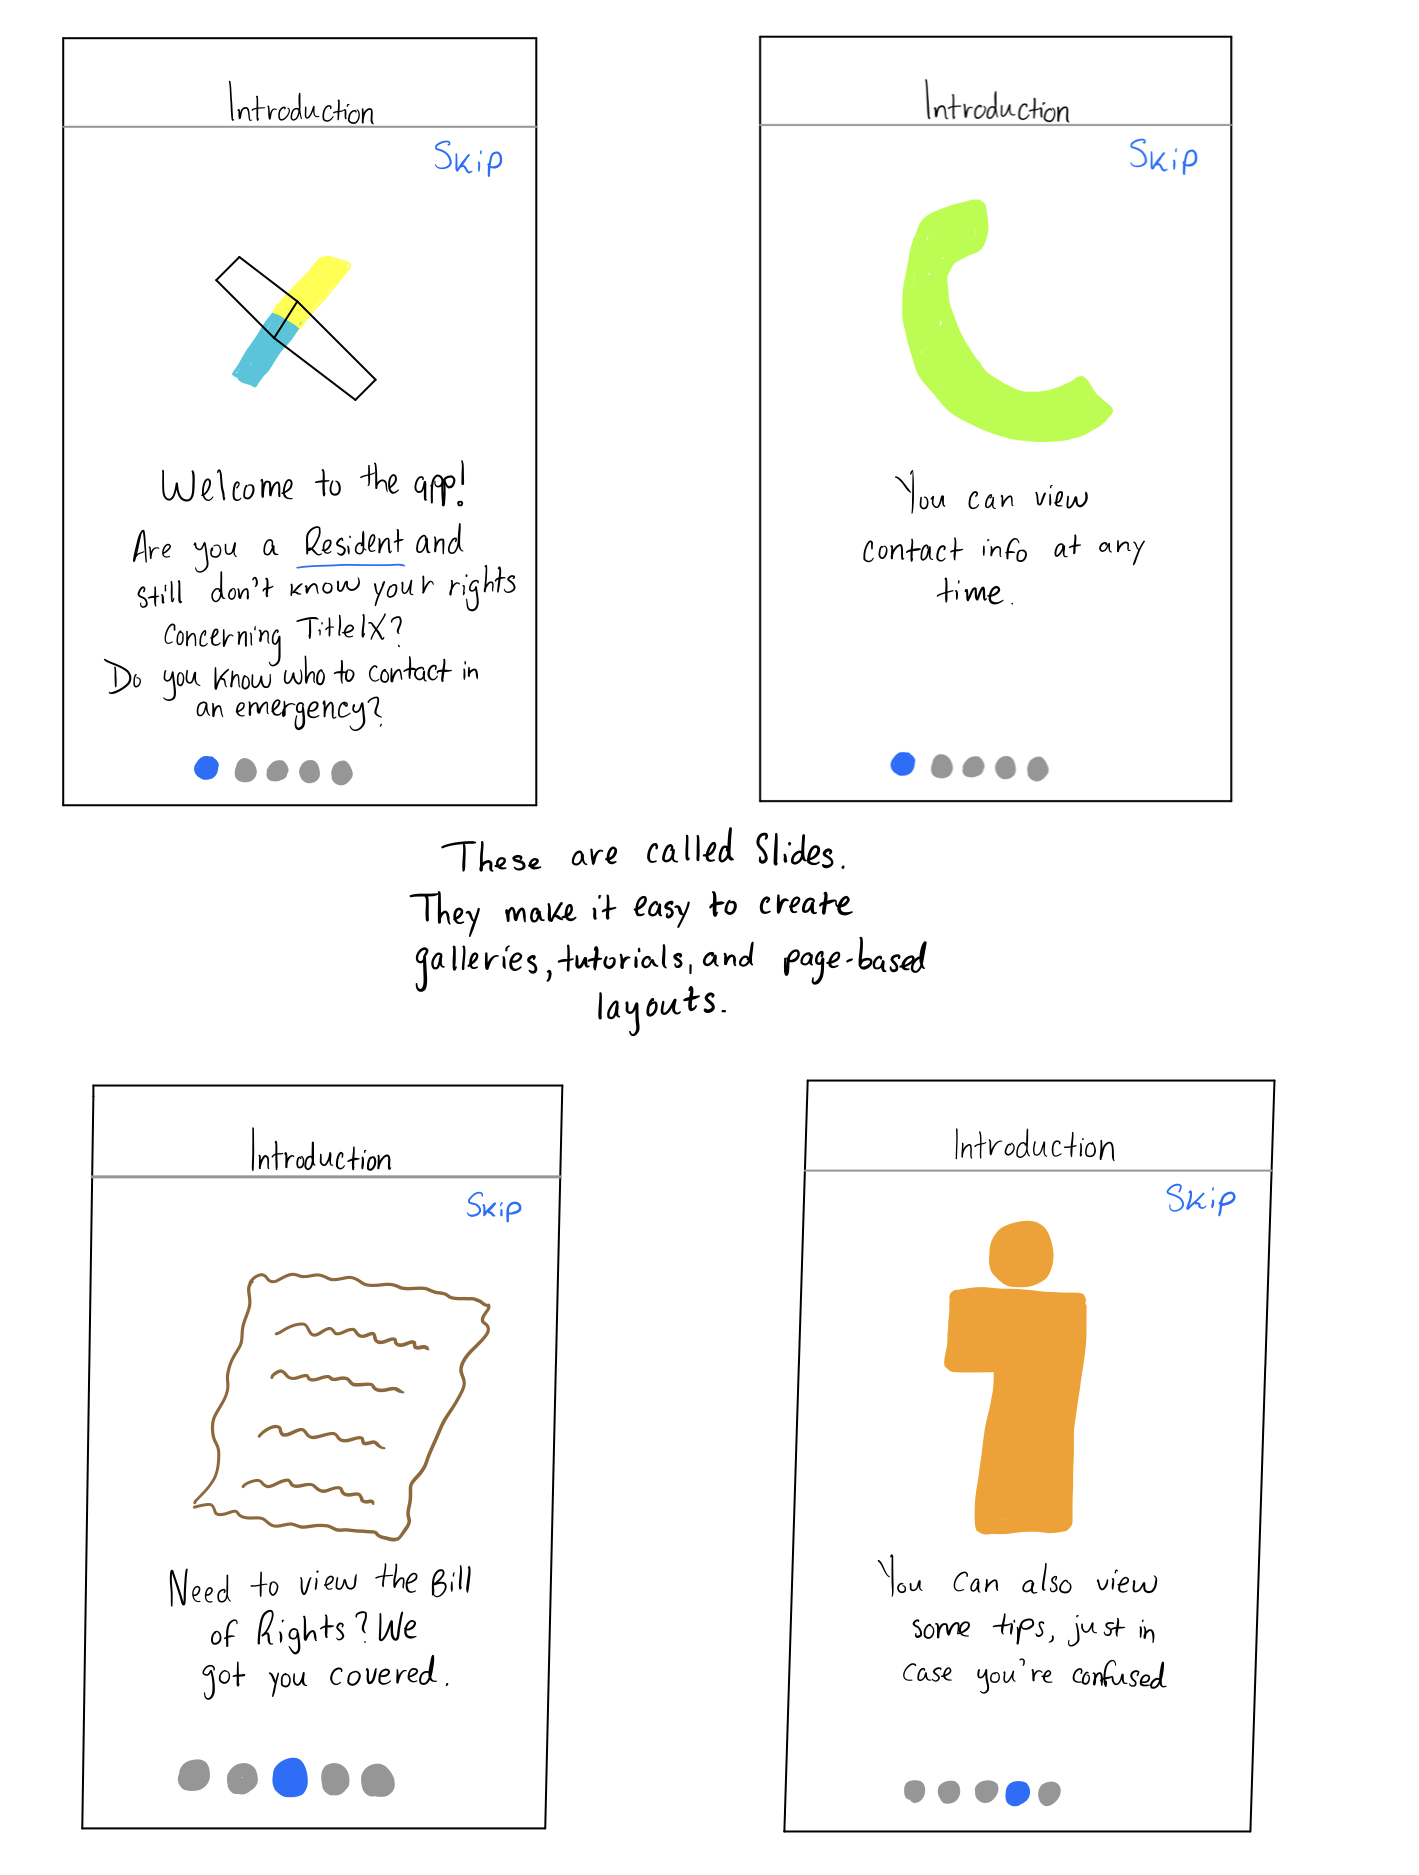
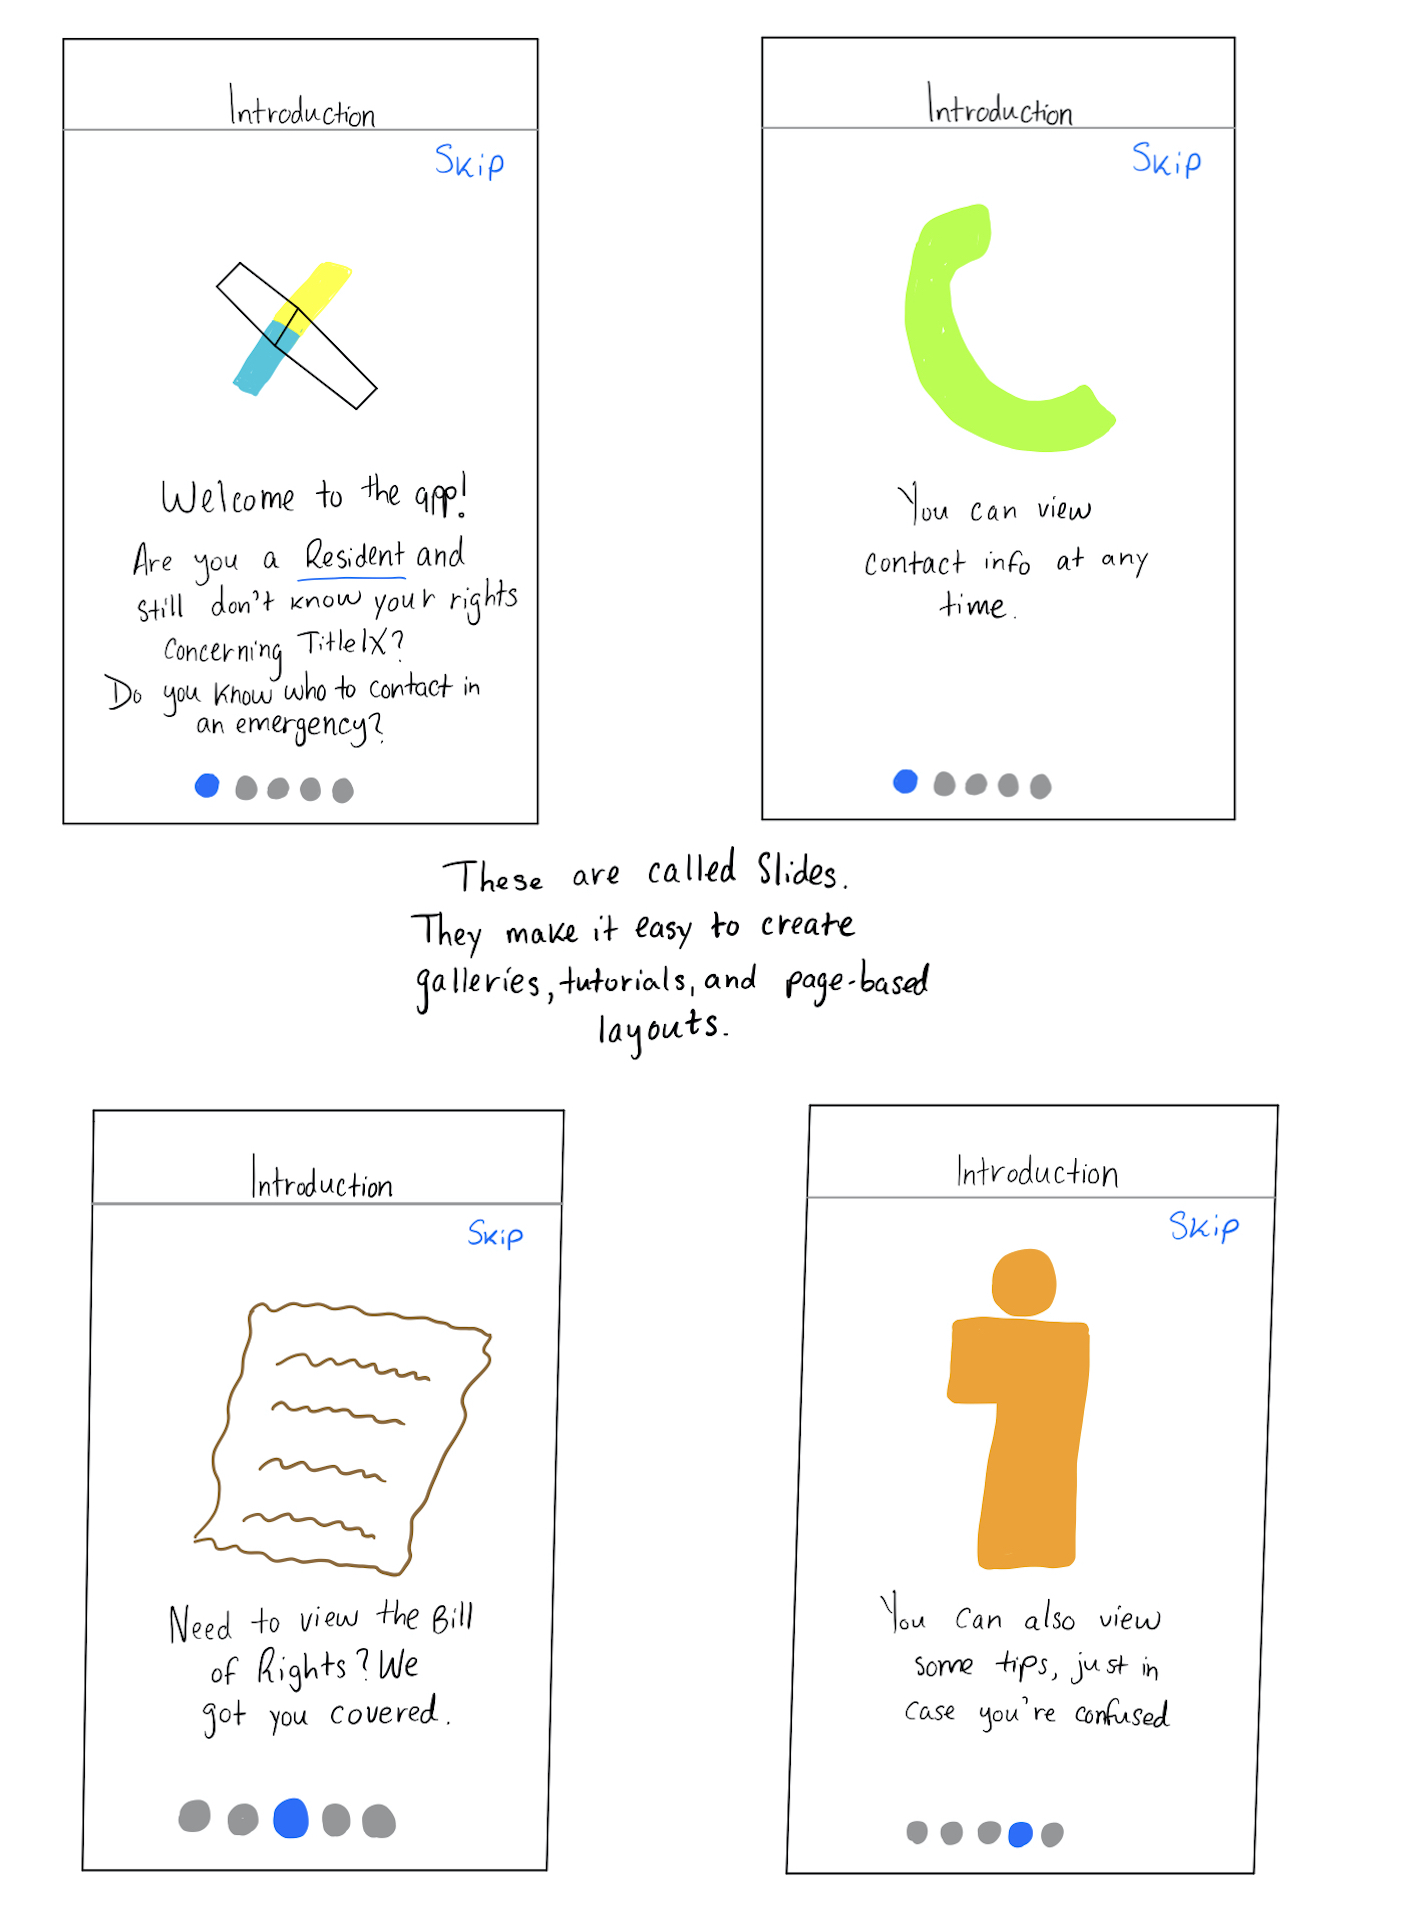
media queries and subtle adjustments

diff --git a/src/pages/kyr.js b/src/pages/kyr.js
@@ -111,12 +111,11 @@ span {
     margin-top: 8px;
   }
 
-  .caption-two {
+  .caption-two, .caption {
+      text-align: center;
       padding-bottom: 20px;
-  }
-
-  .mockups {
-    text-align: center;
+      position: relative;
+      top: 8px;
   }
 
   hr {
@@ -169,72 +168,39 @@ ol {
 
   @media (min-width: 575px) {
 
-    h1, h2, p, .tools, section, ol, ul, hr {
       width: 700px;
       margin-left: auto;
       margin-right: auto;
-      max-width: 100%;
+      
+    
+      h1 {
+        max-width: 100%;
+      }
+
+
+    .kyr-container {
+      display: -webkit-flex;
+      display: -ms-flexbox;
+      display: flex;
+      overflow: hidden;
     }
 
-    .kyr-container-1 {
-      //margin: 0 auto;
-      //width: 900px;
+    .kyr-container .col {
+      flex: 1;
+      padding: 1%;
     }
 
-    .kyr-sketch-1 {
-      float: left;
-      width: 50%;
-      padding-right: 15px;
+    .caption {
+      text-align: center;
     }
-
-    .kyr-sketch-2 {
-      float: right;
-      width: 50%;
-      padding-left: 15px;
-    }
-
-    .caption-one {
-      position: relative;
-      top: 10px;
-      margin: 0 auto;
-    }
-
-
-
 
     .kyr-container-2 {
-      margin-left: auto;
-      margin-right: auto;
-      // width: 700px;
+      margin: 0 auto;
     }
 
     .caption-two {
       position: relative;
-      top: 10px;
-    }
-
-    
-
-    .kyr-container-3 {
-      //margin: 0 auto;
-      //width: 700px;
-    }
-
-    .kyr-final-1 {
-      float: left;
-      width: 50%;
-      padding-right: 15px;
-    }
-
-    .kyr-final-2 {
-      float: right;
-      width: 50%;
-      padding-left: 15px;
-    }
-
-    .caption-three {
-      position: relative;
-      top: 10px;
+      top: 8px;
       text-align: center;
     }
 
@@ -245,10 +211,11 @@ const KYR = () => (
     <Layout id="top">
           <SEO title="Know Your Rights" />
        
-          <Link to="/work/">
-                <BackButton />
-          </Link>
+          
           <KYRWrapper>
+            <Link to="/work/">
+                  <BackButton />
+            </Link>
             
             <h1>Know Your Rights Mobile App</h1>
             
@@ -269,15 +236,15 @@ const KYR = () => (
                 Know Your Rights is a convenient mobile application specifically tailored for college students attending the State University of New York Polytechnic Institute to view policies, procedures, and other information surrounding the Title IX federal civil rights law. Students can use the app at any time, as long as they are in possession of their mobile device.
             </p>
 
-            <section className="kyr-container-1">
-              <div className="kyr-sketch-1" style={{ maxWidth: `450px` }}>
+            <section className="kyr-container">
+              <div className="col" style={{ maxWidth: `450px` }}>
                 <Image filename="kyrsketch1.jpg" alt="Mobile App Sketches" />
               </div>
-              <div className="kyr-sketch-2" style={{ maxWidth: `450px` }}>
+              <div className="col" style={{ maxWidth: `450px` }}>
                 <Image filename="kyrsketch2.jpg" alt="Mobile App Sketches" />
               </div>
             </section>
-            <h4 className="caption-one">First Sketches of the Know Your Rights App</h4>
+            <h4 className="caption">First Sketches of the Know Your Rights App</h4>
 
             <h2>Challenge</h2>
             <p>
@@ -299,7 +266,7 @@ const KYR = () => (
                   <Image filename="kyr2.png" alt="Mobile App UI Mockups" />
               </div>
             </section>
-            <h4 className="caption-two mockups">UI Mockups Built With Sketch</h4>
+            <h4 className="caption-two">UI Mockups Built With Sketch</h4>
             <hr />
 
             <h2>Process & Experience</h2>
@@ -325,15 +292,15 @@ const KYR = () => (
               Know Your Rights shed a positive light on the Title IX laws on my college campus. It was an effective resource in determining the rights each student had on campus and who they could contact in case of an emergency. Furthermore, it showcased warning signs students should be aware of in sexual assault situations. This project will always be meaningful to me because of the impact it strived to make in the community.
             </p>
 
-            <section className="kyr-container-3">
-              <div style={{ maxWidth: `450px` }} className="kyr-final-1">
+            <section className="kyr-container">
+              <div style={{ maxWidth: `450px` }} className="col">
                   <Image filename="kyrSol1.png" alt="Mobile App Presentation Slides" />
               </div>
-              <div style={{ maxWidth: `450px` }} className="kyr-final-2">
+              <div style={{ maxWidth: `450px` }} className="col">
                   <Image filename="kyrSol2.png" alt="Mobile App Presentation Slides" />
               </div>
             </section>
-            <h4 className="caption-three">Final Presentation Slides</h4>
+            <h4 className="caption">Final Presentation Slides</h4>
             
             <hr />
             

diff --git a/src/pages/bm.js b/src/pages/bm.js
@@ -102,19 +102,26 @@ span {
     line-height: 1.8;
   }
 
-  .bm-sketch-1 {
-    text-align: center;
-  }
-
   h4 {
     font-weight: normal;
     font-size: 10px;
     color: var(--blue-grey-three);
     margin-top: 8px;
+    text-align: center;
+  }
+
+  .banner-container .col {
+    margin: 0 auto;
   }
 
   .caption-two {
       padding-bottom: 20px;
+  }
+
+  .bm-container-4 {
+    margin-left: auto;
+    margin-right: auto;
+    text-align: center;
   }
 
   hr {
@@ -183,10 +190,11 @@ ol {
 
   @media (min-width: 575px) {
 
-    h1, h2, h4, p, .tools, section, ol, ul, hr {
-      width: 700px;
-      margin-left: auto;
-      margin-right: auto;
+    width: 700px;
+    margin-left: auto;
+    margin-right: auto;
+
+    h1 {
       max-width: 100%;
     }
 
@@ -200,15 +208,32 @@ ol {
       width: 500px;
       height: 400px;
     }
+
+    .banner-container {
+      display: -webkit-flex;
+      display: -ms-flexbox;
+      display: flex;
+      overflow: hidden;
+    }
+
+    .banner-container .col {
+      flex: 1;
+      margin: 0 auto;
+    }
+
+    .bm {
+      padding: 1%;
+    }
 `
 
 const Banner = () => (
     <Layout id="top">
           <SEO title="Banner Mobile" />
-          <Link to="/work/">
-                <BackButton />
-          </Link>
+          
           <BannerWrapper>
+            <Link to="/work/">
+                  <BackButton />
+            </Link>
             <h1>Banner Mobile App</h1>
             
             <div className="tools">
@@ -228,10 +253,20 @@ const Banner = () => (
                 Banner Mobile is an application that allows users to easily view registration information for a subset of classes at the State University of New York (SUNY) Polytechnic Institute. One of its main goals is to simplify the information found in the current Banner Web system.
             </p>
 
-            <div style={{ maxWidth: `200px`, margin: `0 auto` }}>
+            <section className="banner-container">
+              <div className="col bm" style={{ maxWidth: `300px` }}>
+                <Image filename="banner1.jpeg" alt="Mobile App Sketches" />
+              </div>
+              <div className="col bm" style={{ maxWidth: `300px` }}>
+                <Image filename="banner2.jpeg" alt="Mobile App Sketches" />
+              </div>
+            </section>
+            <h4>First Sketches of the Banner Mobile App</h4>
+
+            {/* <div style={{ maxWidth: `200px`, margin: `0 auto` }}>
                 <Image filename="bmsketch1.jpg" alt="Mobile App Sketches" />
-            </div>
-            <h4 className="bm-sketch-1">First Sketches of the Banner Mobile App</h4>
+            </div> */}
+
 
             <h2>Challenge</h2>
             <p>

diff --git a/src/pages/404.js b/src/pages/404.js
@@ -39,7 +39,7 @@ const NotFound = styled.div`
     color: var(--blue-grey-three);
     font-size: 16px;
     padding-top: 30px;
-    text-transform: uppercase;
+    //text-transform: uppercase;
     letter-spacing: .03em;
     margin-bottom: 12px;
   }
@@ -76,6 +76,14 @@ const NotFound = styled.div`
     font-size: 14px;
     color: var(--blue-grey-five);
   }
+
+
+  @media (min-width: 575px) {
+    width: 700px;
+    margin-left: auto;
+    margin-right: auto;
+    max-width: 100%;
+  }
   
 `
 
@@ -98,7 +106,7 @@ const NotFoundPage = () => (
             <ul>
               <li>
                 <FontAwesomeIcon icon={['fas', 'arrow-right']} size="md" className="fa-fw right-arrow" />
-                <Link to="/">Homepage</Link>
+                <Link to="/">Home</Link>
               </li>
 
               <li>

diff --git a/src/pages/about.js b/src/pages/about.js
@@ -162,9 +162,9 @@ const AboutPage = () => (
         most passionate about.
       </AboutText>
       <AboutText className="last-p">
-        As for some of my interests, I love music, which is why I dedicated a portion of this site to featuring my playlists.
-        I'm also learning how to DJ. Other than that, I love to work out. I'm actually glad I do
-        because I have a serious problem avoiding desserts, in case you haven't noticed from the picture above.
+        As for some of my interests, I love music...a lot. I'm currently learning how to DJ. 
+        Other than that, I love to work out. I'm actually glad I do
+        because I'm a major foodie and I have a serious problem avoiding desserts, in case you haven't noticed from the picture above.
       </AboutText>
       
       <div>

diff --git a/src/pages/success.js b/src/pages/success.js
@@ -63,6 +63,18 @@ const SuccessWrapper = styled.div`
     font-size: 14px;
     color: var(--blue-grey-five);
   }
+
+
+  @media (min-width: 575px) {
+    width: 700px;
+    margin-left: auto;
+    margin-right: auto;
+    max-width: 100%;
+
+    h1 {
+      max-width: 100%;
+    }
+  }
 `
 
 const SuccessPage = () => (
@@ -81,7 +93,7 @@ const SuccessPage = () => (
 
               <li>
                 <FontAwesomeIcon icon={['fas', 'arrow-right']} size="md" className="fa-fw right-arrow" />
-                <Link to="/">Homepage</Link>
+                <Link to="/">Home</Link>
               </li>
 
               <li>

diff --git a/src/components/nav.js b/src/components/nav.js
@@ -10,13 +10,10 @@ import { FontAwesomeIcon } from '@fortawesome/react-fontawesome'
 const NavWrapper = styled.nav`
     // TODO - Media query
 
-    
-
-  
         display: flex;
         justify-content: space-around;
 
-        min-height: 65vh;
+        min-height: 40vh;
 
         .link-name {
             
